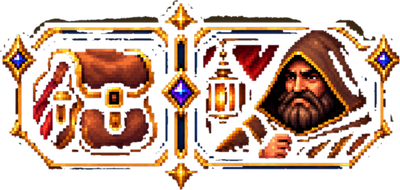
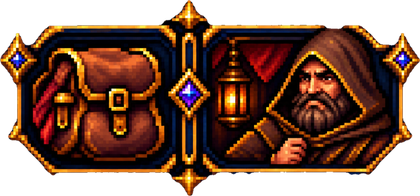
v83: recorte do icone inventario/mercador refeito
Claude-Session: https://claude.ai/code/session_01YFC38PcyDKAfPNhJ7r1cKG

diff --git a/sw.js b/sw.js
@@ -1,4 +1,4 @@
-const CACHE='bd1-rpg-v82';
+const CACHE='bd1-rpg-v83';
 const ASSETS=['./','./index.html','./game.html','./lobby.js','./bag_panel.png','./bag_button.png','./menu_meta.js','./menu_assassin.png','./menu_mage.png','./menu_knight.png','./menu_tank.png','./menu_elem.png','./icon_tipo_sword.png','./lobby.css','./select_plate.webp','./char_mage.webp','./char_knight.webp','./char_tank.webp','./char_assassin.webp','./panel_mage.webp','./panel_knight.webp','./panel_tank.webp','./panel_assassin.webp','./style.css','./app.js','./anim.js','./mage.js','./cleric.js','./tank.js','./knight.js','./fxsoft.js','./knight/K1_1.png','./knight/K1_10.png','./knight/K1_11.png','./knight/K1_13.png','./knight/K1_14.png','./knight/K1_15.png','./knight/K1_19.png','./knight/K1_2.png','./knight/K1_20.png','./knight/K1_21.png','./knight/K1_22.png','./knight/K1_23.png','./knight/K1_24.png','./knight/K1_25.png','./knight/K1_26.png','./knight/K1_27.png','./knight/K1_28.png','./knight/K1_29.png','./knight/K1_30.png','./knight/K1_31.png','./knight/K1_32.png','./knight/K1_35.png','./knight/K1_37.png','./knight/K1_4.png','./knight/K1_41.png','./knight/K1_42.png','./knight/K1_44.png','./knight/K1_45.png','./knight/K1_46.png','./knight/K1_49.png','./knight/K1_5.png','./knight/K1_6.png','./knight/K1_7.png','./knight/K1_8.png','./knight/K1_9.png','./knight/K2_10.png','./knight/K2_11.png','./knight/K2_13.png','./knight/K2_14.png','./knight/K2_15.png','./knight/K2_16.png','./knight/K2_17.png','./knight/K2_18.png','./knight/K2_19.png','./knight/K2_2.png','./knight/K2_20.png','./knight/K2_21.png','./knight/K2_22.png','./knight/K2_23.png','./knight/K2_24.png','./knight/K2_25.png','./knight/K2_26.png','./knight/K2_28.png','./knight/K2_29.png','./knight/K2_3.png','./knight/K2_30.png','./knight/K2_32.png','./knight/K2_33.png','./knight/K2_34.png','./knight/K2_35.png','./knight/K2_37.png','./knight/K2_38.png','./knight/K2_39.png','./knight/K2_4.png','./knight/K2_41.png','./knight/K2_42.png','./knight/K2_43.png','./knight/K2_44.png','./knight/K2_45.png','./knight/K2_46.png','./knight/K2_5.png','./knight/K2_6.png','./knight/K2_7.png','./knight/K2_8.png','./knight/K2_9.png','./knight/K3_1.png','./knight/K3_10.png','./knight/K3_11.png','./knight/K3_12.png','./knight/K3_13.png','./knight/K3_14.png','./knight/K3_15.png','./knight/K3_16.png','./knight/K3_17.png','./knight/K3_18.png','./knight/K3_2.png','./knight/K3_20.png','./knight/K3_21.png','./knight/K3_22.png','./knight/K3_23.png','./knight/K3_24.png','./knight/K3_25.png','./knight/K3_26.png','./knight/K3_27.png','./knight/K3_28.png','./knight/K3_29.png','./knight/K3_3.png','./knight/K3_30.png','./knight/K3_31.png','./knight/K3_32.png','./knight/K3_33.png','./knight/K3_34.png','./knight/K3_35.png','./knight/K3_36.png','./knight/K3_37.png','./knight/K3_38.png','./knight/K3_39.png','./knight/K3_4.png','./knight/K3_40.png','./knight/K3_41.png','./knight/K3_42.png','./knight/K3_43.png','./knight/K3_44.png','./knight/K3_45.png','./knight/K3_46.png','./knight/K3_47.png','./knight/K3_48.png','./knight/K3_5.png','./knight/K3_6.png','./knight/K3_7.png','./knight/K3_8.png','./knight/K3_9.png','./knight/fx_ice.png','./knight/fx_rocksA.png','./knight/fx_rock1.png','./knight/fx_rock2.png','./knight/fx_rock3.png','./knight/fx_rock4.png','./knight/fx_slash.png','./knight/meta.json','./clr/at1.png','./clr/at2.png','./clr/at3.png','./clr/bg1.png','./clr/bg2.png','./clr/bg3.png','./clr/bg4.png','./clr/bp1.png','./clr/bp2.png','./clr/bp3.png','./clr/br1.png','./clr/br2.png','./clr/br3.png','./clr/br4.png','./clr/br5.png','./clr/br6.png','./clr/bt1.png','./clr/bt2.png','./clr/bt3.png','./clr/bt4.png','./clr/d1.png','./clr/d2.png','./clr/d3.png','./clr/d4.png','./clr/dg1.png','./clr/dg2.png','./clr/dg3.png','./clr/dn1.png','./clr/dn2.png','./clr/dn3.png','./clr/ds1.png','./clr/ex1.png','./clr/fx_aura.png','./clr/fx_burst.png','./clr/fx_cross1.png','./clr/fx_lotus.png','./clr/fx_pillar.png','./clr/fx_pillar2.png','./clr/fx_ring1.png','./clr/fx_ring2.png','./clr/fx_ring3.png','./clr/fx_star1.png','./clr/fx_star2.png','./clr/fx_star3.png','./clr/fx_star4.png','./clr/fx_streak1.png','./clr/fx_streak2.png','./clr/fx_streak3.png','./clr/fx_sunstar.png','./clr/hat1.png','./clr/hat2.png','./clr/idle1.png','./clr/meta.json','./clr/pr1.png','./clr/pr2.png','./clr/stf.png','./clr/ult1.png','./clr/ult2.png','./clr/v1.png','./clr/v2.png','./mage3/air.png','./mage3/atk1.png','./mage3/atk2.png','./mage3/atk3.png','./mage3/bh1.png','./mage3/bh2.png','./mage3/castdef.png','./mage3/defair.png','./mage3/defearth.png','./mage3/deffire.png','./mage3/defmana.png','./mage3/defwater.png','./mage3/dodge1.png','./mage3/dodge2.png','./mage3/dodge3.png','./mage3/dodge4.png','./mage3/earth.png','./mage3/fire.png','./mage3/fx_air_swirl.png','./mage3/fx_bh_big.png','./mage3/fx_bh_big2.png','./mage3/fx_bh_small.png','./mage3/fx_bh_spikes.png','./mage3/fx_bolt.png','./mage3/fx_comet.png','./mage3/fx_cross.png','./mage3/fx_crystal.png','./mage3/fx_earth_spikes.png','./mage3/fx_fire_fall.png','./mage3/fx_mana_aura.png','./mage3/fx_orb_blue.png','./mage3/fx_orb_orange.png','./mage3/fx_orb_red.png','./mage3/fx_orbb.png','./mage3/fx_ring_floor.png','./mage3/fx_rock.png','./mage3/fx_rocks.png','./mage3/fx_star_big.png','./mage3/fx_star_small.png','./mage3/fx_water_pillar.png','./mage3/fx_whirl.png','./mage3/idle1.png','./mage3/idle2.png','./mage3/idle3.png','./mage3/idle4.png','./mage3/meta.json','./mage3/spin1.png','./mage3/spinwide.png','./mage3/stars.png','./mage3/swingf.png','./mage3/swingl.png','./mage3/swingr.png','./mage3/water.png','./anim/manifest.json','./spr_mage.webp','./spr_knight.webp','./spr_tank.webp','./spr_assassin.webp','./spr_boss.webp','./game_clean.png','./game_nohud.png','./hud_mage.png','./hud_knight.png','./hud_tank.png','./hud_assassin.png','./question_panel.png','./icon_attack.png','./icon_coin.png','./manifest.webmanifest','./potion_hp.png','./potion_mana.png','./tank/a_bub.png','./tank/a_cr.png','./tank/a_dust.png','./tank/a_hh.png','./tank/a_i1.png','./tank/a_i2.png','./tank/a_lo.png','./tank/a_rd.png','./tank/a_rl1.png','./tank/a_rl2.png','./tank/a_s1.png','./tank/a_s2.png','./tank/a_sw.png','./tank/a_swl.png','./tank/d_a1.png','./tank/d_a2.png','./tank/d_a3.png','./tank/d_a4.png','./tank/d_e1.png','./tank/d_e2.png','./tank/d_e3.png','./tank/d_e4.png','./tank/d_f1.png','./tank/d_f2.png','./tank/d_f3.png','./tank/d_h1.png','./tank/d_h2.png','./tank/d_h3.png','./tank/d_h4.png','./tank/d_i1.png','./tank/d_i2.png','./tank/d_i3.png','./tank/d_m1.png','./tank/d_m2.png','./tank/d_m3.png','./tank/d_m4.png','./tank/d_p1.png','./tank/d_p3.png','./tank/d_u1.png','./tank/d_u2.png','./tank/fx_bring.png','./tank/fx_bspike.png','./tank/fx_earth.png','./tank/fx_rockburst.png','./tank/meta.json','./tank/n1.png','./tank/n2.png','./tank/n3.png','./tank/p1.png','./tank/tA.png','./tank/tB.png','./tank/tC.png','./tank/v1.png','./tank/v2.png','./tank/v3.png','./tank/v4.png'];
 // Tudo em cache (abre instantâneo, até offline). Em segundo plano o SW confere a rede (requisição condicional, barata);
 // se algum arquivo mudou, atualiza o cache e avisa a página, que recarrega sozinha (menu) ou mostra o aviso (jogo).

diff --git a/README.md b/README.md
@@ -322,3 +322,4 @@ Guerreiro: âncora das poses trocada (centro do corpo azul + chão por percentil
 - Menu de habilidades a 68% da largura. Marcador de vez: sem retângulo amarelo e sem círculo no chão; só a seta (menor).
 - Inventário + Mercador: arte nova (`bag_panel.png`), escondida; botão com mochila + mercador no centro da borda inferior (`#bag-toggle`) abre/fecha. Abre sozinho quando começa uma votação de compra. Fundo do rodapé (`game_nohud.png`) estendido com chão.
 - v82: botão do inventário/mercador usa a arte nova (`bag_button.png`).
+- v83: recorte do botão refeito (tudo dentro da borda dourada preservado, fora removido).
